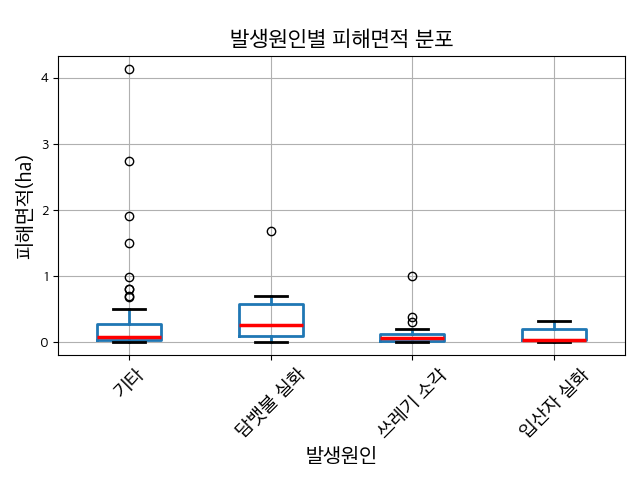
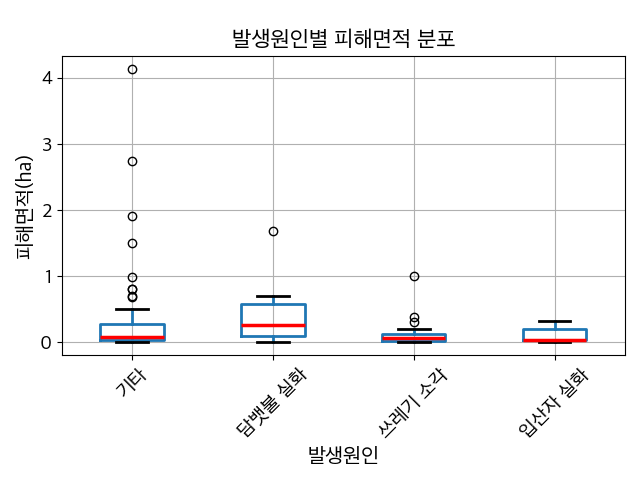
update

diff --git a/5_weather_eda.py b/5_weather_eda.py
@@ -1,0 +1,191 @@
+#%%
+import pandas as pd
+import numpy as np
+import matplotlib.pyplot as plt
+plt.rcParams["font.family"] = "Apple SD Gothic Neo"
+plt.rcParams["axes.unicode_minus"] = False
+from scipy import stats
+from sklearn.preprocessing import StandardScaler
+from sklearn.decomposition import PCA
+#%%
+### 분류모형에 사용할 데이터 EDA
+df = pd.read_csv("./data/cls_data.csv", parse_dates=['일시'])
+df.head()
+
+num_cols = list(df.select_dtypes(include='number').columns) # 수치형 변수
+num_cols.remove('target')
+obj_cols = list(df.select_dtypes(include=['object', 'string']).columns) # 문자형 변수
+#%%
+# 기초통계량 확인하기 (수치형 변수에만 적용 가능)
+print(df[num_cols].describe())
+#%%
+value_counts = df['target'].value_counts().sort_index()
+categories = value_counts.index.astype(str)
+counts = value_counts.values
+ratio = counts / counts.sum()
+
+print("발생횟수:\n", df['target'].value_counts())
+print("발생비율:\n", df['target'].value_counts(normalize=True))
+
+fig, axes = plt.subplots(1, 2, figsize=(8, 4), sharex=True)
+axes[0].bar(categories, counts)
+axes[0].set_xlabel("발생여부", fontsize=14)
+axes[0].set_ylabel("비율", fontsize=14)
+axes[0].grid(alpha=0.3)
+axes[1].bar(categories, ratio)
+axes[1].set_xlabel("발생여부", fontsize=14)
+axes[1].set_ylabel("횟수", fontsize=14)
+axes[1].grid(alpha=0.3)
+for ax in axes:
+    ax.tick_params(axis='both', labelsize=14)
+plt.tight_layout()
+plt.savefig("./fig/5_weather_target.png")
+plt.show()
+plt.close()
+#%%
+### target group별 기초 통계량
+group_stats = df.groupby('target')[num_cols].agg(['mean', 'median', 'max'])
+print(group_stats)
+#%%
+### Welch's T-test (양측검정의 경우)
+# H0: 두 그룹의 모평균은 동일하다.
+# H1: 두 그룹의 모평균은 다르다. 
+ttest_p = {}
+for col in num_cols:
+    g0 = df[df['target'] == 0][col].values
+    g1 = df[df['target'] == 1][col].values
+    _, pvalue = stats.ttest_ind(g0, g1, equal_var=False, alternative='two-sided')
+    ttest_p[col] = pvalue
+ttest_df = pd.DataFrame({"p_value": pd.Series(ttest_p)}).sort_values("p_value")
+print(ttest_df)
+
+alpha = 0.05 # 유의수준
+ttest_df.loc[ttest_df['p_value'] < alpha].round(4) # 평균에서 유의한 차이를 보이는 변수
+ttest_df.loc[ttest_df['p_value'] > alpha].round(4) # 평균에서 유의미한 차이를 보이지 못하는 변수
+#%%
+plt.figure(figsize=(10, 4))
+plt.bar(ttest_df.index, ttest_df["p_value"])
+plt.axhline(0.05, color='red', linestyle='--', label='유의수준(= 0.05)')
+plt.xticks(rotation=90, fontsize=11)
+plt.ylabel("p-value", fontsize=13)
+plt.legend()
+plt.tight_layout()
+plt.savefig("./fig/5_weather_pvalue.png")
+plt.show()
+plt.close()
+#%%
+plt.figure(figsize=(10, 4))
+plt.bar(ttest_df.index, np.log10(ttest_df["p_value"]))
+plt.axhline(np.log10(0.05), color='red', linestyle='--', label='유의수준(= 0.05)')
+plt.xticks(rotation=90, fontsize=11)
+plt.ylabel("log10(p-value)", fontsize=13)
+plt.legend()
+plt.tight_layout()
+plt.savefig("./fig/5_weather_logpvalue.png")
+plt.show()
+plt.close()
+#%%
+### 단순 평균의 차이가 아니라, 분포의 차이를 확인
+col = '최저기온(°C)(lag3)' # 가장 작은 p-value를 갖는 기상변수
+# col = num_cols[2]
+
+plt.figure(figsize=(6, 4))
+df.boxplot(
+    column=col,
+    by='target',
+    grid=True,
+    
+    boxprops=dict(linewidth=2, color='tab:blue'), # 박스
+    whiskerprops=dict(linewidth=2, color='tab:blue'), # 수염
+    capprops=dict(linewidth=2, color='black'), # 최상(하)단 가로선
+    medianprops=dict(linewidth=2.5, color='red') # 중위수
+)
+plt.xticks(rotation=45, fontsize=14)
+plt.title(f"발생여부에 따른 {col}의 분포 - Boxplot", fontsize=16)
+plt.suptitle("")
+plt.xlabel("발생여부", fontsize=15)
+plt.ylabel(col, fontsize=15)
+plt.tight_layout()
+plt.savefig("./fig/5_weather_boxplot.png")
+plt.show()
+plt.close()
+#%%
+plt.figure(figsize=(6, 4))
+plt.hist(
+    df[df['target'] == 0][col], 
+    bins='auto', alpha=0.5, label="Class 0")
+plt.hist(
+    df[df['target'] == 1][col], 
+    bins='auto', alpha=0.5, label="Class 1")
+plt.title(f"발생여부에 따른 {col}의 분포 - 히스토그램", fontsize=16)
+plt.xlabel("발생여부", fontsize=15)
+plt.ylabel(col, fontsize=15)
+plt.legend(fontsize=13)
+plt.tight_layout()
+plt.savefig("./fig/5_weather_hist.png")
+plt.show()
+plt.close()
+#%%
+plt.figure(figsize=(6, 4))
+plt.hist(
+    df[df['target'] == 0][col], 
+    bins='auto', alpha=0.5, label="Class 0", density=True)
+plt.hist(
+    df[df['target'] == 1][col], 
+    bins='auto', alpha=0.5, label="Class 1", density=True)
+plt.title(f"발생여부에 따른 {col}의 분포 - 밀도함수", fontsize=16)
+plt.xlabel("발생여부", fontsize=15)
+plt.ylabel(col, fontsize=15)
+plt.legend(fontsize=13)
+plt.tight_layout()
+plt.savefig("./fig/5_weather_density.png")
+plt.show()
+plt.close()
+#%%
+### 변수들간의 강한 상관관계 구조 확인
+corr = df[num_cols].corr()
+
+plt.figure(figsize=(7, 6))
+plt.imshow(corr, aspect="auto")
+plt.title("상관계수 행렬", fontsize=16)
+plt.colorbar()
+plt.tight_layout()
+plt.savefig("./fig/5_weather_corrmat.png")
+plt.show()
+plt.close()
+#%%
+scaler = StandardScaler()
+X_scaled = scaler.fit_transform(df[num_cols]) # scaling: 표준화
+
+pca = PCA(random_state=42)
+pca.fit(X_scaled)
+
+explained_variance = pca.explained_variance_
+explained_variance_ratio = pca.explained_variance_ratio_
+cumulative_ratio = np.cumsum(explained_variance_ratio)
+
+threshold = 0.80
+pca_num = (cumulative_ratio < threshold).sum()
+cumulative_ratio[pca_num]
+
+# Scree Plot
+fig, axes = plt.subplots(1, 2, figsize=(10, 4), sharex=True)
+axes[0].plot(range(1, len(explained_variance) + 1), explained_variance)
+axes[0].set_title("설명되는 분산의 크기", fontsize=15)
+axes[0].set_xlabel("주성분", fontsize=14)
+axes[0].set_ylabel("분산", fontsize=14)
+axes[0].grid(alpha=0.3)
+axes[1].plot(range(1, len(cumulative_ratio) + 1), cumulative_ratio)
+axes[1].axvline(pca_num+1, linestyle='--', color='red', label=f'주성분개수: {pca_num+1}')
+axes[1].set_title("설명되는 분산 비율의 누적합", fontsize=15)
+axes[1].set_xlabel("주성분", fontsize=14)
+axes[1].set_ylabel("비율", fontsize=14)
+axes[1].grid(alpha=0.3)
+axes[1].legend(fontsize=14)
+for ax in axes:
+    ax.tick_params(axis='both', labelsize=14)
+plt.tight_layout()
+plt.savefig("./fig/5_weather_pca.png")
+plt.show()
+plt.close()
+#%%

diff --git a/4_sanbul_eda.py b/4_sanbul_eda.py
@@ -4,6 +4,8 @@ import numpy as np
 import matplotlib.pyplot as plt
 plt.rcParams["font.family"] = "Apple SD Gothic Neo"
 plt.rcParams["axes.unicode_minus"] = False
+from sklearn.preprocessing import StandardScaler
+from sklearn.decomposition import PCA
 #%%
 ### 회귀모형에 사용할 데이터 EDA
 df = pd.read_csv("./data/reg_data.csv", parse_dates=['일시', '발생일시', '진화종료시간'])
@@ -89,6 +91,7 @@ df.boxplot(
     medianprops=dict(linewidth=2.5, color='red') # 중위수
 )
 plt.xticks(rotation=45, fontsize=14)
+plt.yticks(fontsize=14)
 plt.title("발생원인별 피해면적 분포", fontsize=16)
 plt.suptitle("")
 plt.xlabel("발생원인", fontsize=15)
@@ -112,6 +115,7 @@ df.boxplot(
     medianprops=dict(linewidth=2.5, color='red') # 중위수
 )
 plt.xticks(rotation=45, fontsize=14)
+plt.yticks(fontsize=14)
 plt.title("발생원인별 log(피해면적) 분포", fontsize=16)
 plt.suptitle("")
 plt.xlabel("발생원인", fontsize=15)
@@ -236,6 +240,53 @@ plt.xlabel("값")
 plt.grid(axis='x', linestyle='--', alpha=0.4)
 plt.tight_layout()
 plt.savefig("./fig/4_sanbul_weather_range.png")
+plt.show()
+plt.close()
+#%%
+### 변수들간의 강한 상관관계 구조 확인
+corr = df[weather_lag_cols].corr()
+
+plt.figure(figsize=(7, 6))
+plt.imshow(corr, aspect="auto")
+plt.title("상관계수 행렬", fontsize=16)
+plt.colorbar()
+plt.tight_layout()
+plt.savefig("./fig/4_sanbul_corrmat.png")
+plt.show()
+plt.close()
+#%%
+scaler = StandardScaler()
+X_scaled = scaler.fit_transform(df[weather_lag_cols]) # scaling: 표준화
+
+pca = PCA(random_state=42)
+pca.fit(X_scaled)
+
+explained_variance = pca.explained_variance_
+explained_variance_ratio = pca.explained_variance_ratio_
+cumulative_ratio = np.cumsum(explained_variance_ratio)
+
+threshold = 0.80
+pca_num = (cumulative_ratio < threshold).sum()
+cumulative_ratio[pca_num]
+
+# Scree Plot
+fig, axes = plt.subplots(1, 2, figsize=(10, 4), sharex=True)
+axes[0].plot(range(1, len(explained_variance) + 1), explained_variance)
+axes[0].set_title("설명되는 분산의 크기", fontsize=15)
+axes[0].set_xlabel("주성분", fontsize=14)
+axes[0].set_ylabel("분산", fontsize=14)
+axes[0].grid(alpha=0.3)
+axes[1].plot(range(1, len(cumulative_ratio) + 1), cumulative_ratio)
+axes[1].axvline(pca_num+1, linestyle='--', color='red', label=f'주성분개수: {pca_num+1}')
+axes[1].set_title("설명되는 분산 비율의 누적합", fontsize=15)
+axes[1].set_xlabel("주성분", fontsize=14)
+axes[1].set_ylabel("비율", fontsize=14)
+axes[1].grid(alpha=0.3)
+axes[1].legend(fontsize=14)
+for ax in axes:
+    ax.tick_params(axis='both', labelsize=14)
+plt.tight_layout()
+plt.savefig("./fig/4_sanbul_pca.png")
 plt.show()
 plt.close()
 #%%
